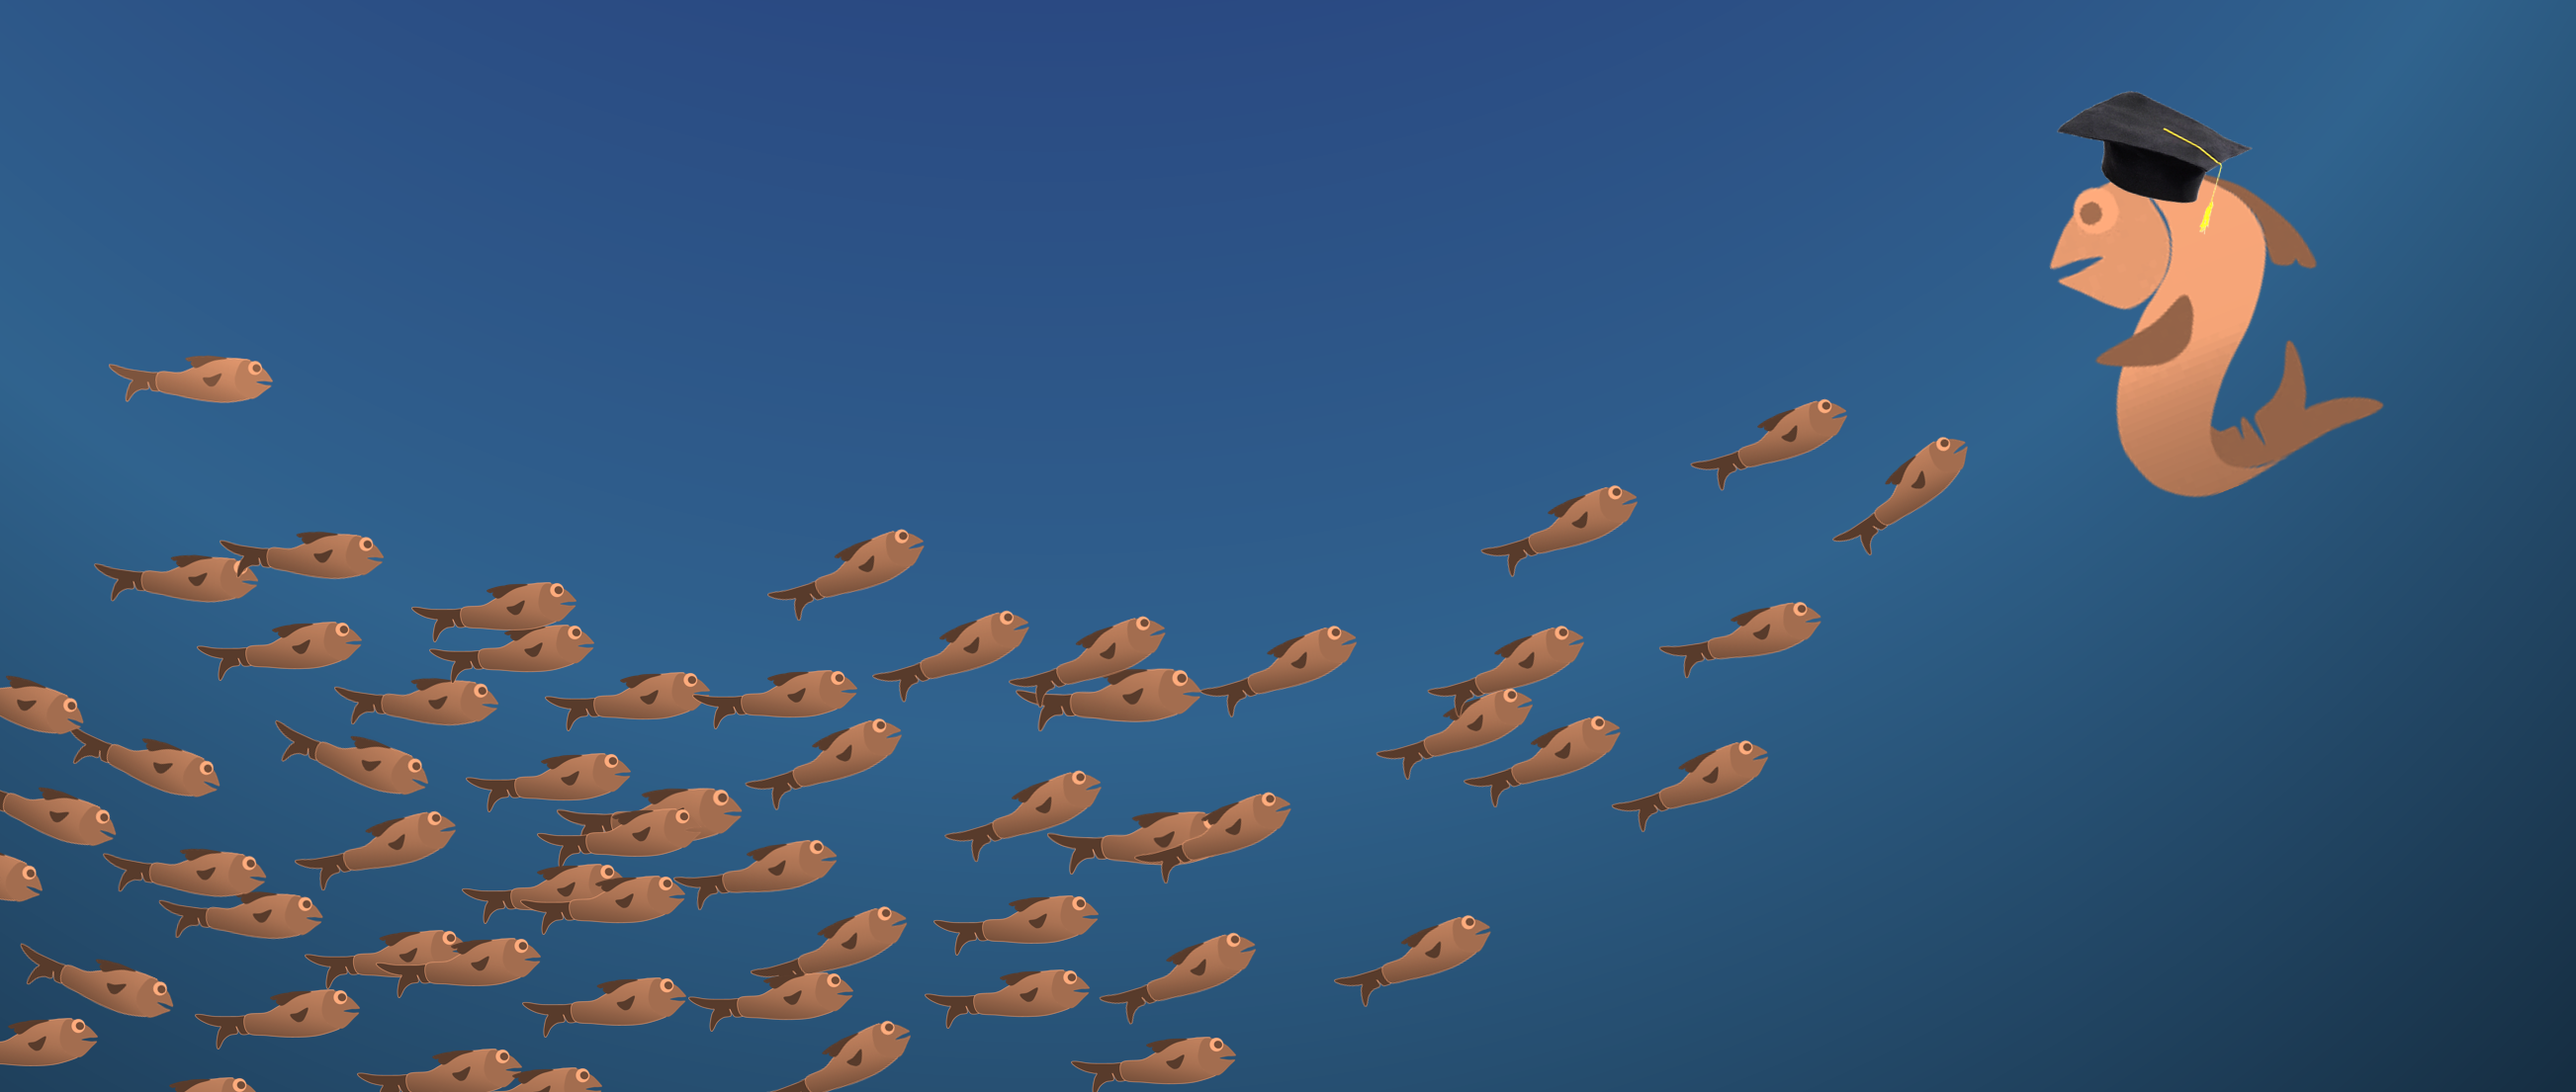
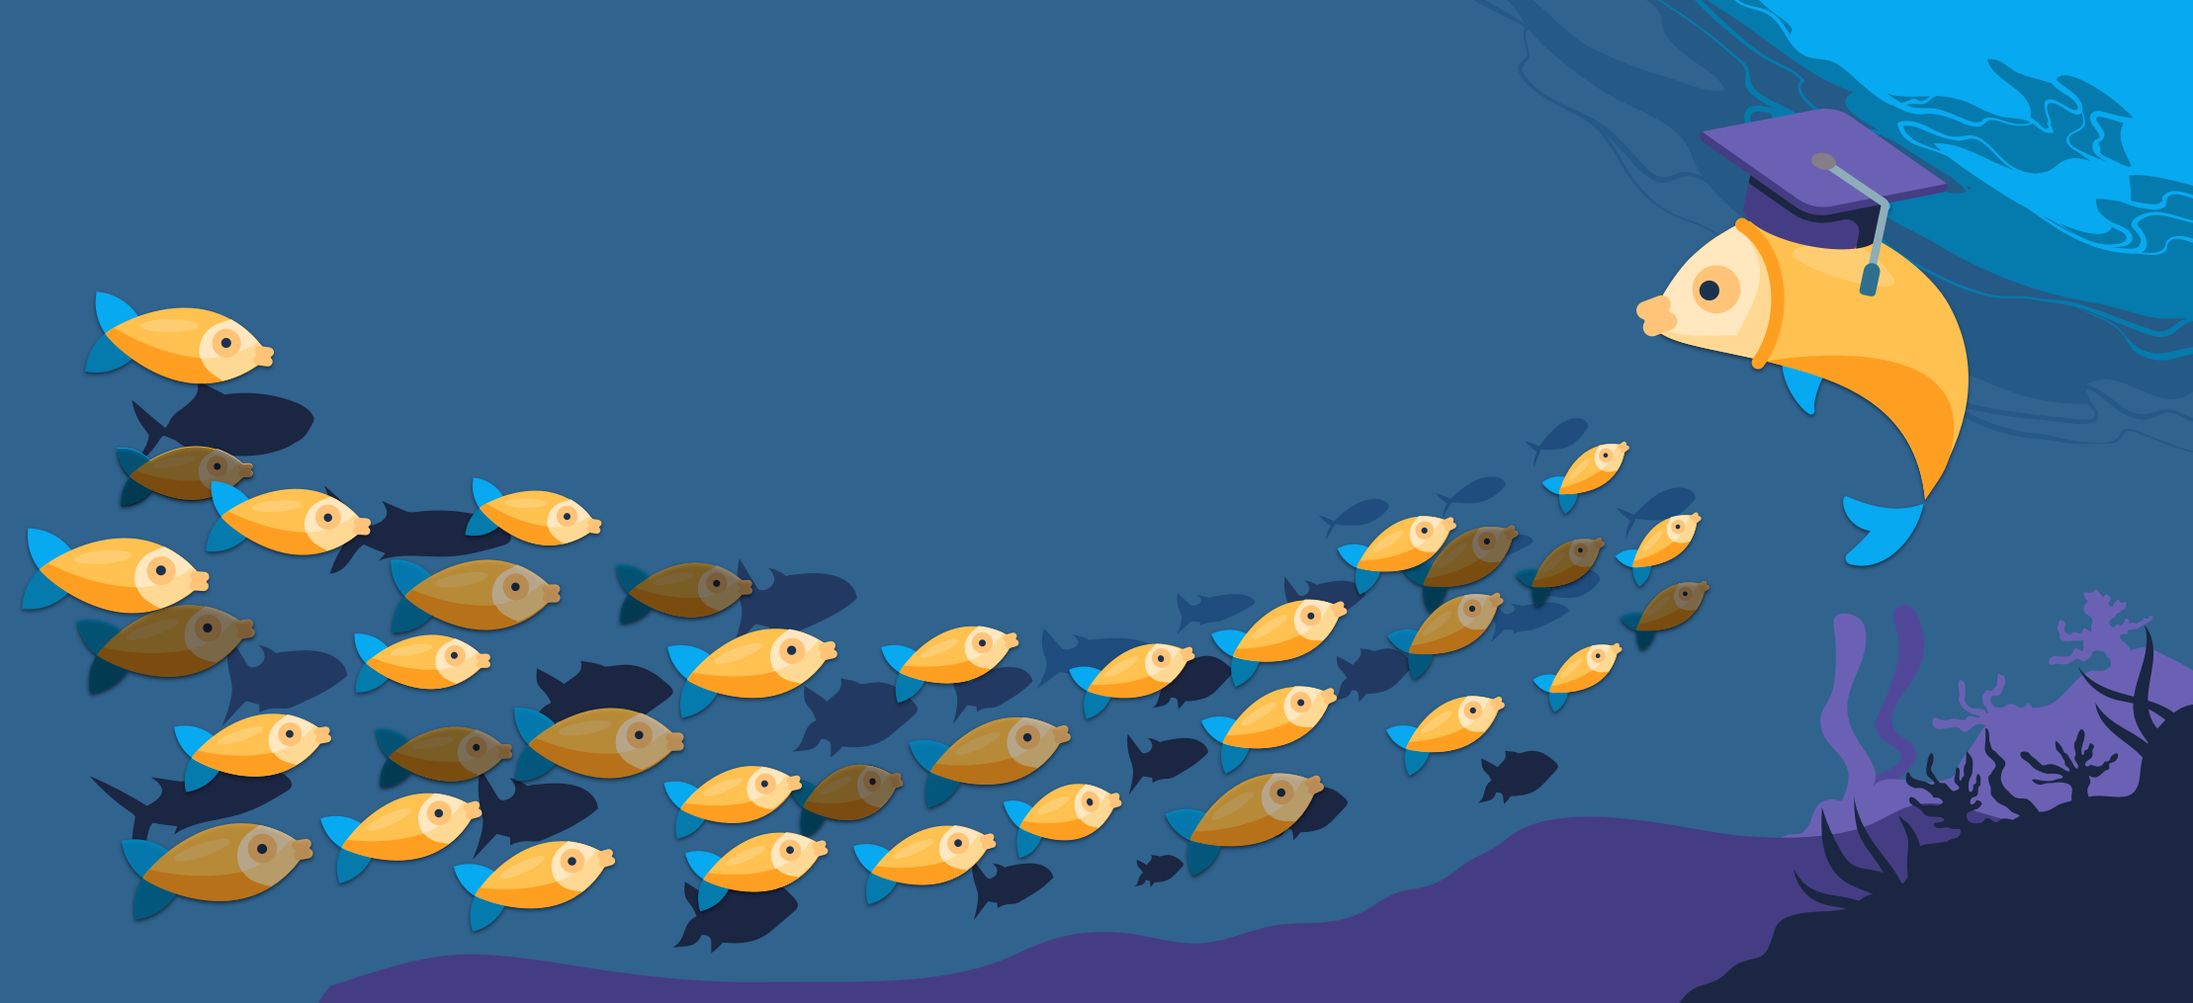
Updated background image and removed washout opacity (#41)

diff --git a/assets/scss/blocks/_cover.scss b/assets/scss/blocks/_cover.scss
@@ -1,0 +1,28 @@
+// A cover block is a full size cover with a fixed background for smaller screens.
+
+@include td-box-height-modifiers(".td-cover-block");
+
+.td-cover-logo {
+    margin-right: 0.5em;
+}
+
+.td-cover-block {
+    position: relative;
+    padding-top: 5rem;
+    padding-bottom: 5rem;
+    background: {
+        repeat: no-repeat;
+        position: 50% 0;
+        size: cover;
+    };
+
+    & > .byline {
+        position: absolute;
+        bottom: 2px;
+        right: 4px;
+    }
+}
+
+.td-overlay--dark::after {
+    opacity: 0;
+}
